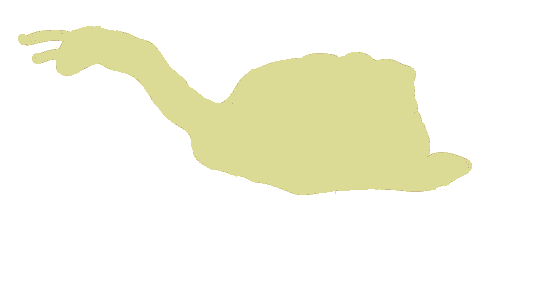
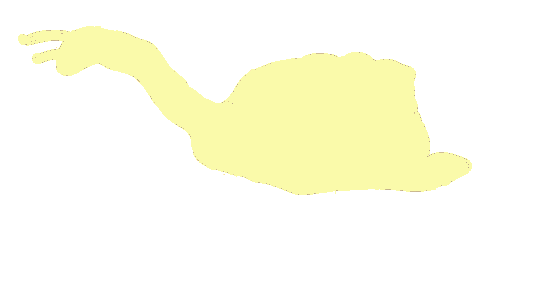
Made colors brighter
svn path=/trunk/; revision=211

Changed region(s): [[0.0308, 0.0879, 0.8623, 0.645]]

diff --git a/Source/Renderer.cpp b/Source/Renderer.cpp
@@ -306,7 +306,7 @@ void Renderer::manipulateImage(const std::string &path, const Transformation
         if( images.count(key) < 1 )
         {
             //Manually update to color in palette
-            const SDL_Color HIGHLIGHT_TEXT_COLOR = { 0xbd, 0xbd, 0x8e, 0x00 };
+            const SDL_Color HIGHLIGHT_TEXT_COLOR = { 0xfa, 0xfa, 0xaa, 0x00 };
             if( fontSize == FontSize::Huge() )
                 highlightedText = TTF_RenderText_Blended(fontHuge, path.c_str(),
                     HIGHLIGHT_TEXT_COLOR);

diff --git a/Source/Line.cpp b/Source/Line.cpp
@@ -748,7 +748,7 @@ void Line::draw(boost::shared_ptr<Layout> &layout, Renderer &renderer)
         return;
 
     const Uint32 WHITE = renderer.makeColor(0xf0, 0xfa, 0xfa, 0xff);
-    const Uint32 SURFACE_BLUE = renderer.makeColor(0x6c, 0x9e, 0x9e, 0xff);
+    const Uint32 SURFACE_BLUE = renderer.makeColor(0x84, 0xc2, 0xc2, 0xff);
     const Uint32 OCEAN_BLUE = renderer.makeColor(0x4e, 0x4e, 0x80, 0xff);
     const Uint32 POLE_RED = renderer.makeColor(0x3a, 0x18, 0x5c, 0x00);
     Dimension size(800.0, 600.0);

diff --git a/Source/StandardUnit.cpp b/Source/StandardUnit.cpp
@@ -48,14 +48,14 @@ const Uint32 StandardUnit::DURATION()
 const Uint32 StandardUnit::BLACK()
 {
     //FIX to match art
-    static const Uint32 TMP = 0x3a185cff;
+    static const Uint32 TMP = 0x331552ff;
     return TMP;
 }
 
 const SDL_Color StandardUnit::SDL_BLACK()
 {
     //FIX to match art
-    static const SDL_Color TMP = { 0x3a, 0x18, 0x5c, 0xff};
+    static const SDL_Color TMP = { 0x33, 0x15, 0x52, 0xff};
     return TMP;
 }
 
